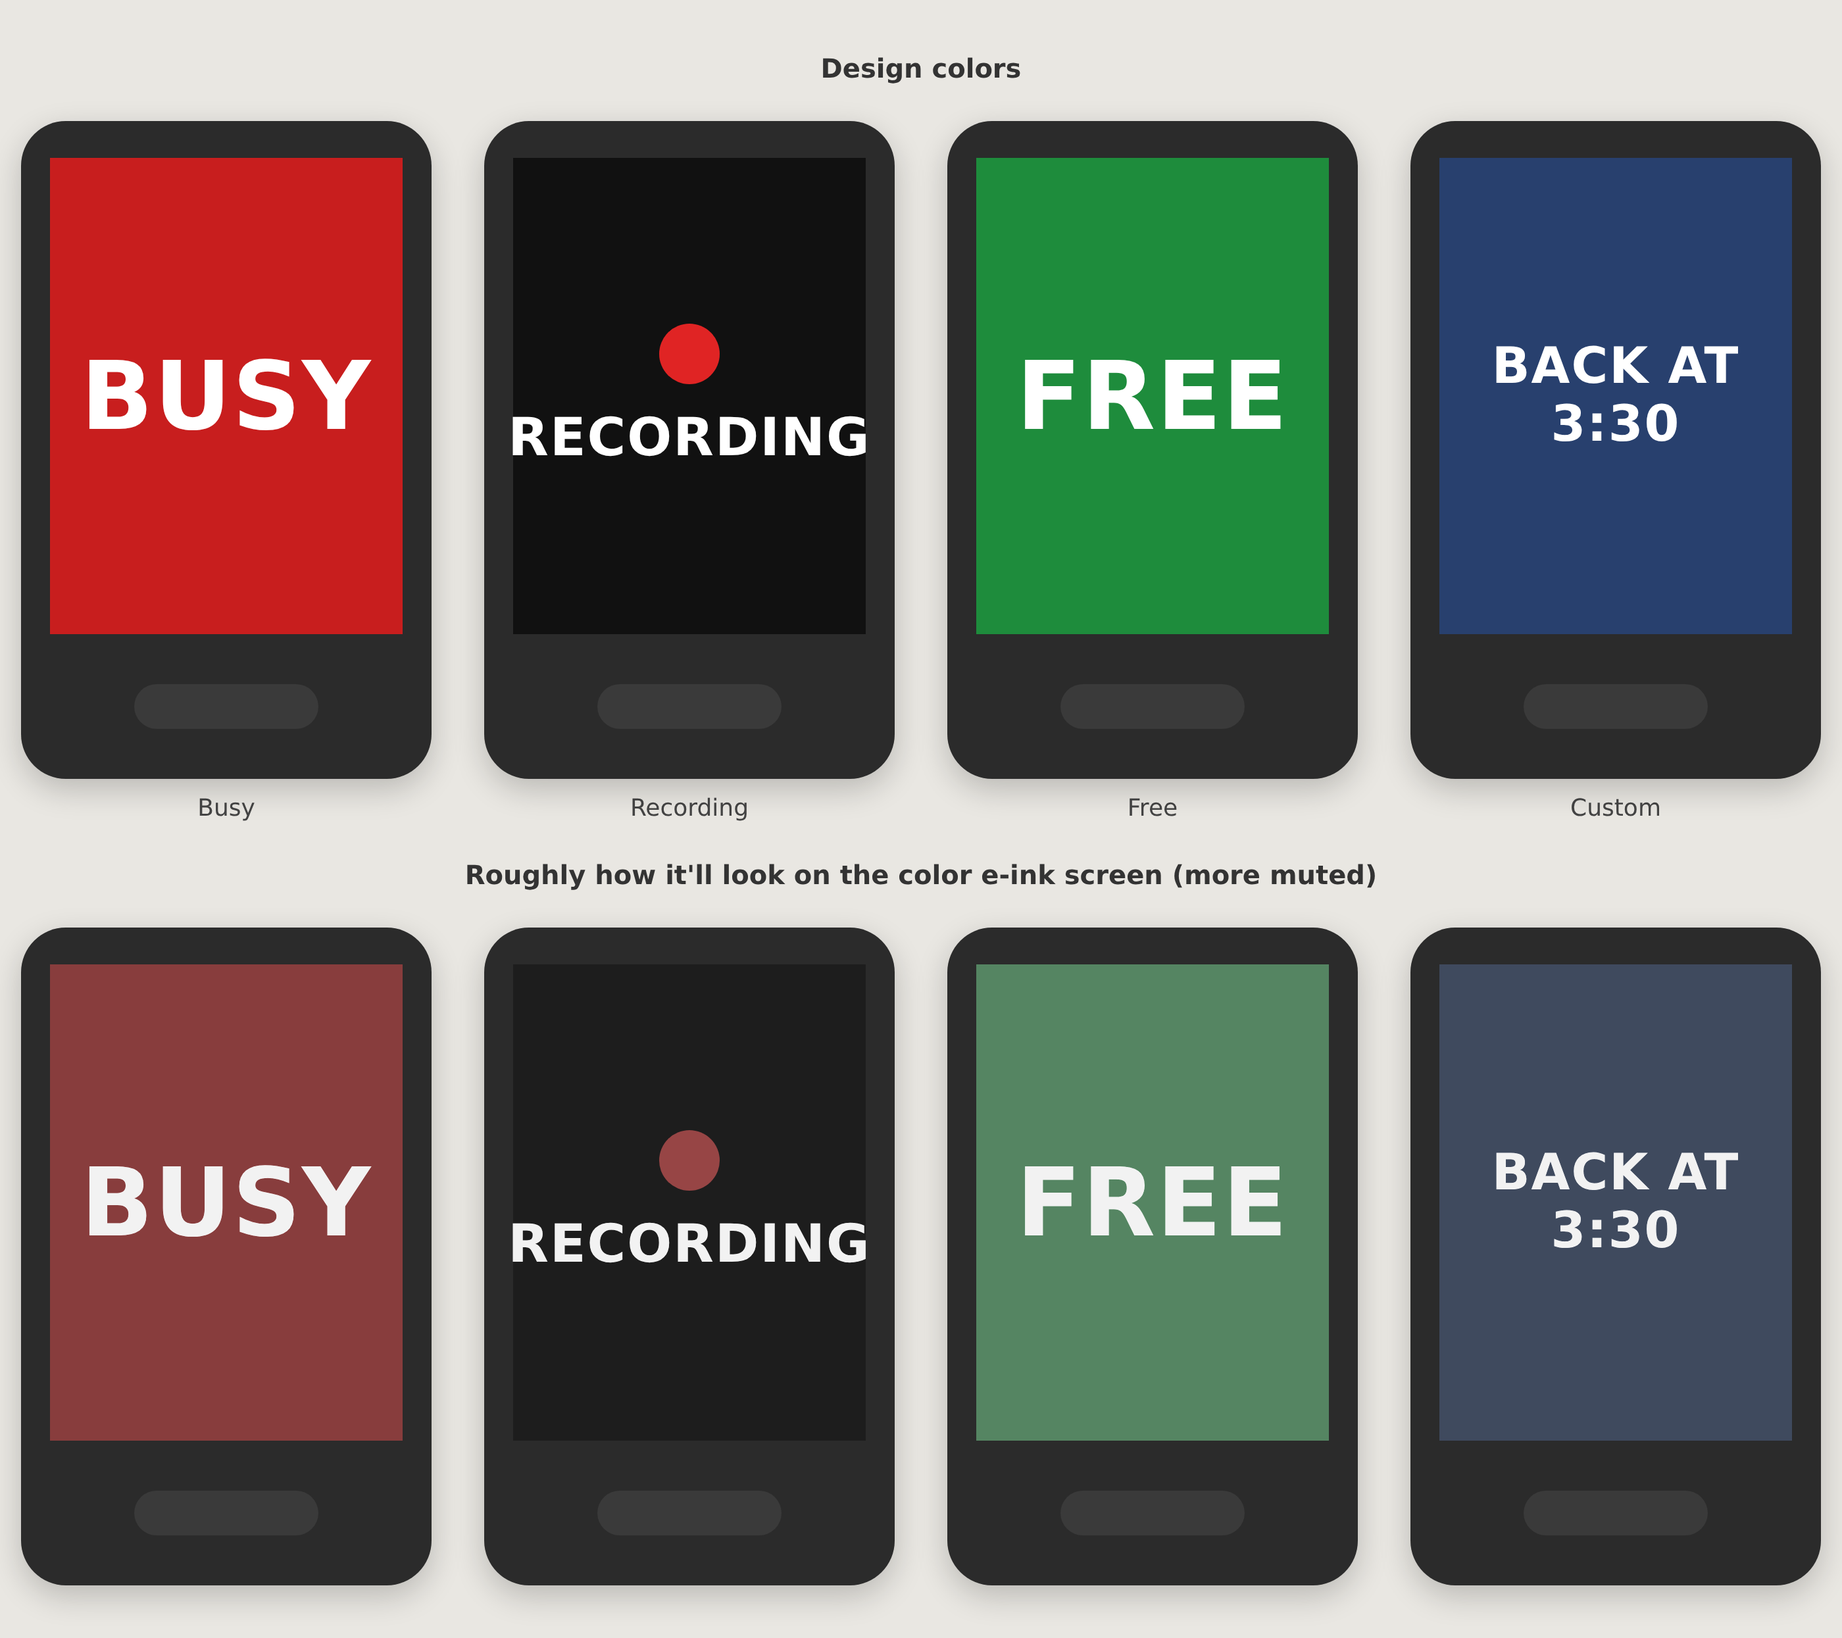
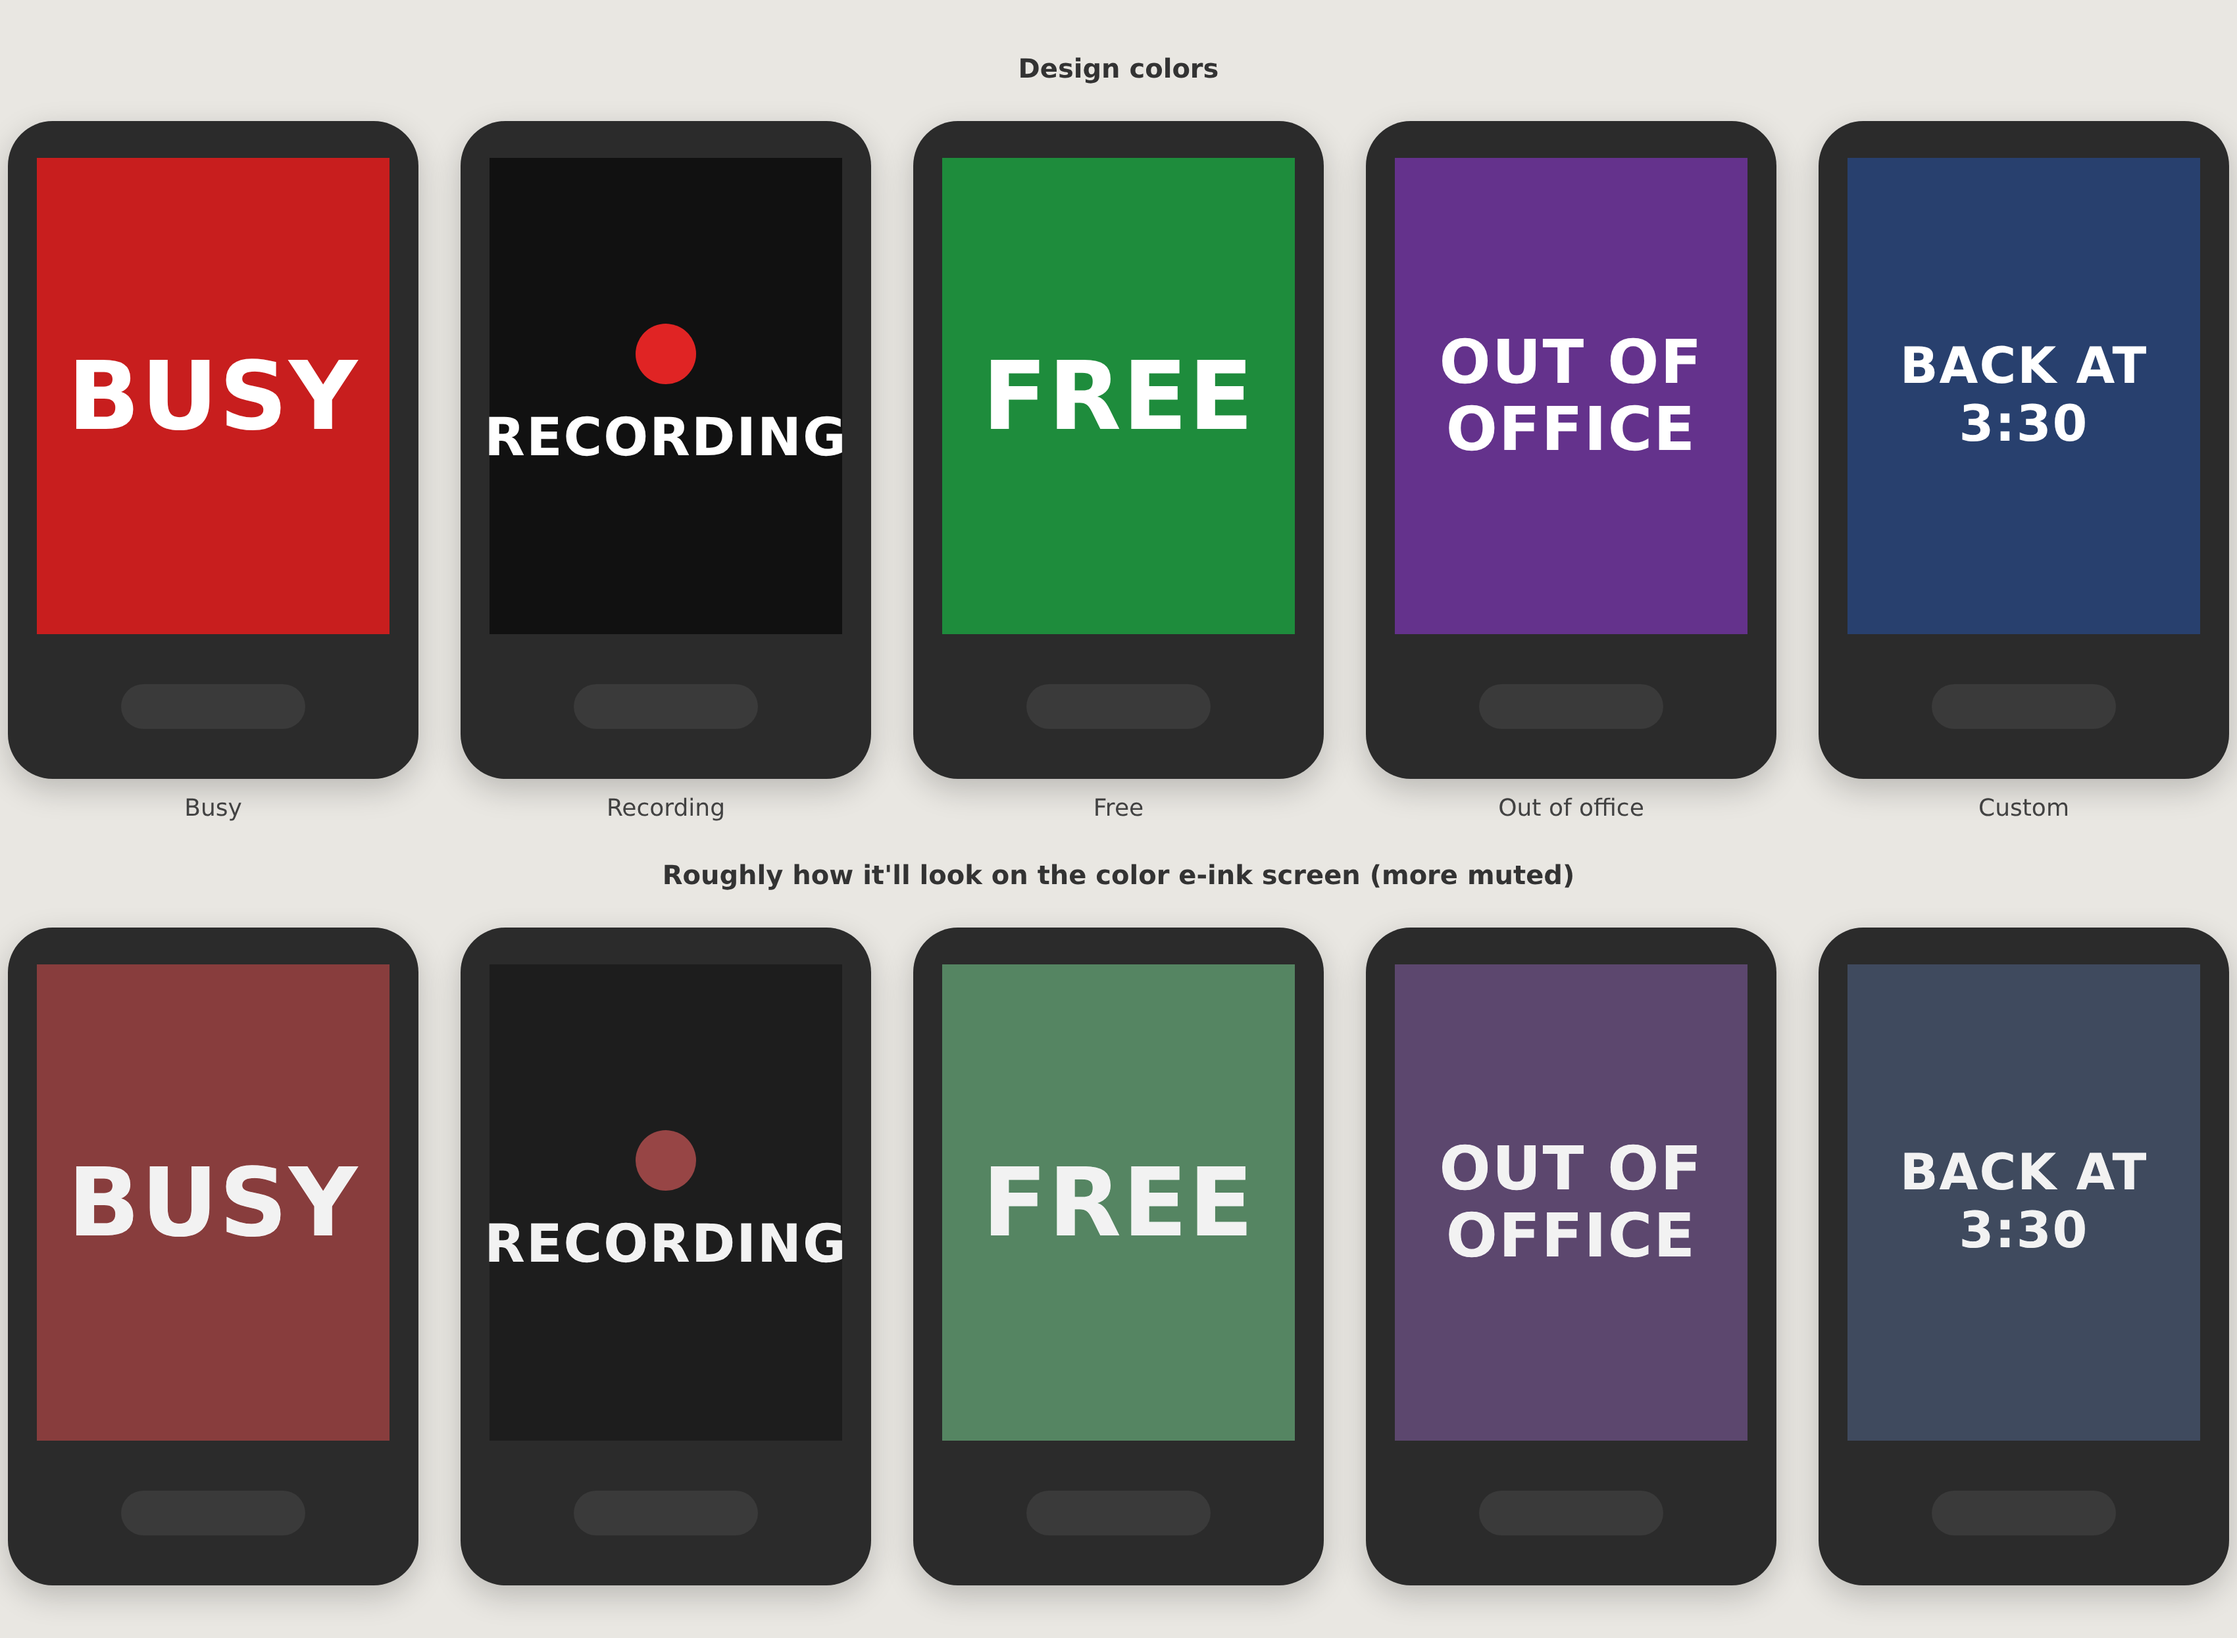
Door sign: add Out of office option (purple)
Adds a preset with menu button, OOO/OUT/AWAY aliases, phone link, and
an updated mockup. Documents which changes need a reinstall.

Claude-Session: https://claude.ai/code/session_014A5HNa8XidrJ2cHtiLALMT

diff --git a/projects/eink-door-sign/design/mockup.html b/projects/eink-door-sign/design/mockup.html
@@ -1,6 +1,6 @@
 <!doctype html><html><head><meta charset="utf-8"><style>
 body{margin:0;background:#e9e7e2;font-family:"Noto Sans","DejaVu Sans",sans-serif;padding:40px;display:flex;flex-direction:column;gap:28px;align-items:center}
-.row{display:flex;gap:40px}
+.row{display:flex;gap:32px}
 .dev{background:#2b2b2b;border-radius:34px;padding:28px 22px 110px;box-shadow:0 8px 24px #0003;position:relative}
 .dev::after{content:"";position:absolute;bottom:38px;left:50%;transform:translateX(-50%);width:140px;height:34px;border-radius:17px;background:#3a3a3a}
 .scr{width:268px;height:362px;display:flex;flex-direction:column;align-items:center;justify-content:center;color:#fff;font-weight:800;letter-spacing:1px;text-align:center}
@@ -14,6 +14,7 @@ h2{margin:0;font-weight:600;color:#333;font-size:20px}
  <div><div class="dev"><div class="scr" style="background:#c81e1e;font-size:72px">BUSY</div></div><div class="lab">Busy</div></div>
  <div><div class="dev"><div class="scr" style="background:#111;font-size:40px"><div class="dot"></div>RECORDING</div></div><div class="lab">Recording</div></div>
  <div><div class="dev"><div class="scr" style="background:#1e8c3c;font-size:72px">FREE</div></div><div class="lab">Free</div></div>
+ <div><div class="dev"><div class="scr" style="background:#64328c;font-size:46px;line-height:1.1">OUT OF<br>OFFICE</div></div><div class="lab">Out of office</div></div>
  <div><div class="dev"><div class="scr" style="background:#28406e;font-size:38px;line-height:1.15">BACK AT<br>3:30</div></div><div class="lab">Custom</div></div>
 </div>
 <h2>Roughly how it'll look on the color e-ink screen (more muted)</h2>
@@ -21,6 +22,7 @@ h2{margin:0;font-weight:600;color:#333;font-size:20px}
  <div><div class="dev"><div class="scr" style="background:#c81e1e;font-size:72px">BUSY</div></div></div>
  <div><div class="dev"><div class="scr" style="background:#111;font-size:40px"><div class="dot"></div>RECORDING</div></div></div>
  <div><div class="dev"><div class="scr" style="background:#1e8c3c;font-size:72px">FREE</div></div></div>
+ <div><div class="dev"><div class="scr" style="background:#64328c;font-size:46px;line-height:1.1">OUT OF<br>OFFICE</div></div></div>
  <div><div class="dev"><div class="scr" style="background:#28406e;font-size:38px;line-height:1.15">BACK AT<br>3:30</div></div></div>
 </div>
 </body></html>

diff --git a/projects/eink-door-sign/README.md b/projects/eink-door-sign/README.md
@@ -9,6 +9,7 @@ Turn a PocketBook e-reader into a portrait door sign you change from your phone 
 | **BUSY** | Red | White, bold sans, all caps |
 | **RECORDING** | Near-black, with a red dot above the text | same |
 | **FREE** | Green | same |
+| **OUT OF OFFICE** | Purple | same, wraps onto two lines |
 | **Custom** (any other text) | Navy | same, wraps onto several lines |
 
 The sign always shows in portrait so the device's chin sits at the bottom. Text is sized as
@@ -27,9 +28,9 @@ than a phone does (see the bottom row of the mockup).
   PocketBook as an extra app, with no jailbreak and without replacing the stock software.
   The `doorsign.koplugin` plugin in this folder shows the full-screen sign.
 - **[ntfy.sh](https://ntfy.sh)**: free message service that needs no account. Your phone
-  sends "BUSY", "RECORDING" or "FREE" to a private topic name, and the e-reader checks that topic.
+  sends "BUSY", "RECORDING", "FREE" or "OOO" to a private topic name, and the e-reader checks that topic.
 - Any other text you send becomes a custom sign, e.g. `Back at 3:30`.
-- On the sign itself: **tap** for a menu (Busy / Recording / Free / Custom…),
+- On the sign itself: **tap** for a menu (Busy / Recording / Free / Out of office / Custom…),
   **press and hold** to close the sign.
 
 ## Setup
@@ -61,6 +62,7 @@ Save these as bookmarks or home-screen shortcuts. Replace `YOURTOPIC` with your 
 - Busy: `https://ntfy.sh/YOURTOPIC/publish?message=BUSY`
 - Recording: `https://ntfy.sh/YOURTOPIC/publish?message=RECORDING`
 - Free: `https://ntfy.sh/YOURTOPIC/publish?message=FREE`
+- Out of office: `https://ntfy.sh/YOURTOPIC/publish?message=OOO`
 - Custom: `https://ntfy.sh/YOURTOPIC/publish?message=Back%20at%203:30` (spaces become `%20`)
 
 Opening a link changes the sign within about a minute (set by `poll_seconds`).
@@ -79,6 +81,12 @@ cable work well. A longer `poll_seconds` (for example 300) uses less battery but
 - For full privacy, run your own ntfy server and change `server` in `config.lua`.
 - PocketBook's own *Settings → Software → Download new updates automatically* is fine to
   leave on. KOReader is a separate app, so firmware updates don't remove it.
+
+## Adding or changing options later
+- **No device trip needed:** any text sent from the phone shows up as a custom sign (navy).
+- **Needs the USB cable once:** adding a new named option with its own color or menu button,
+  or changing colors. Edit `config.lua` / `main.lua`, then copy `doorsign.koplugin` onto the
+  e-reader again.
 
 ## Ideas for later
 - Calendar mode: show BUSY automatically during Google Calendar events.
